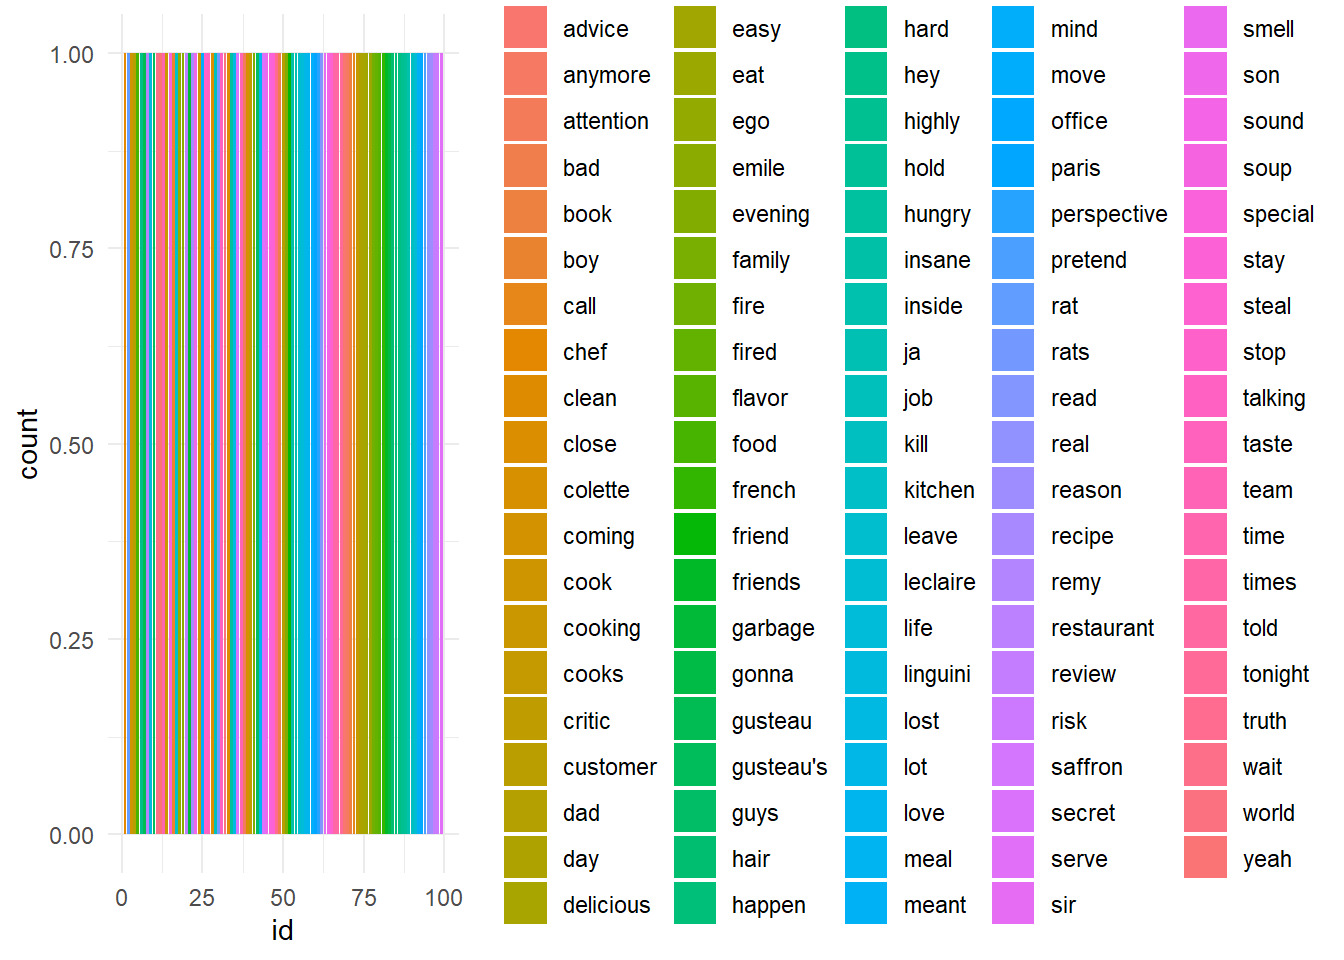
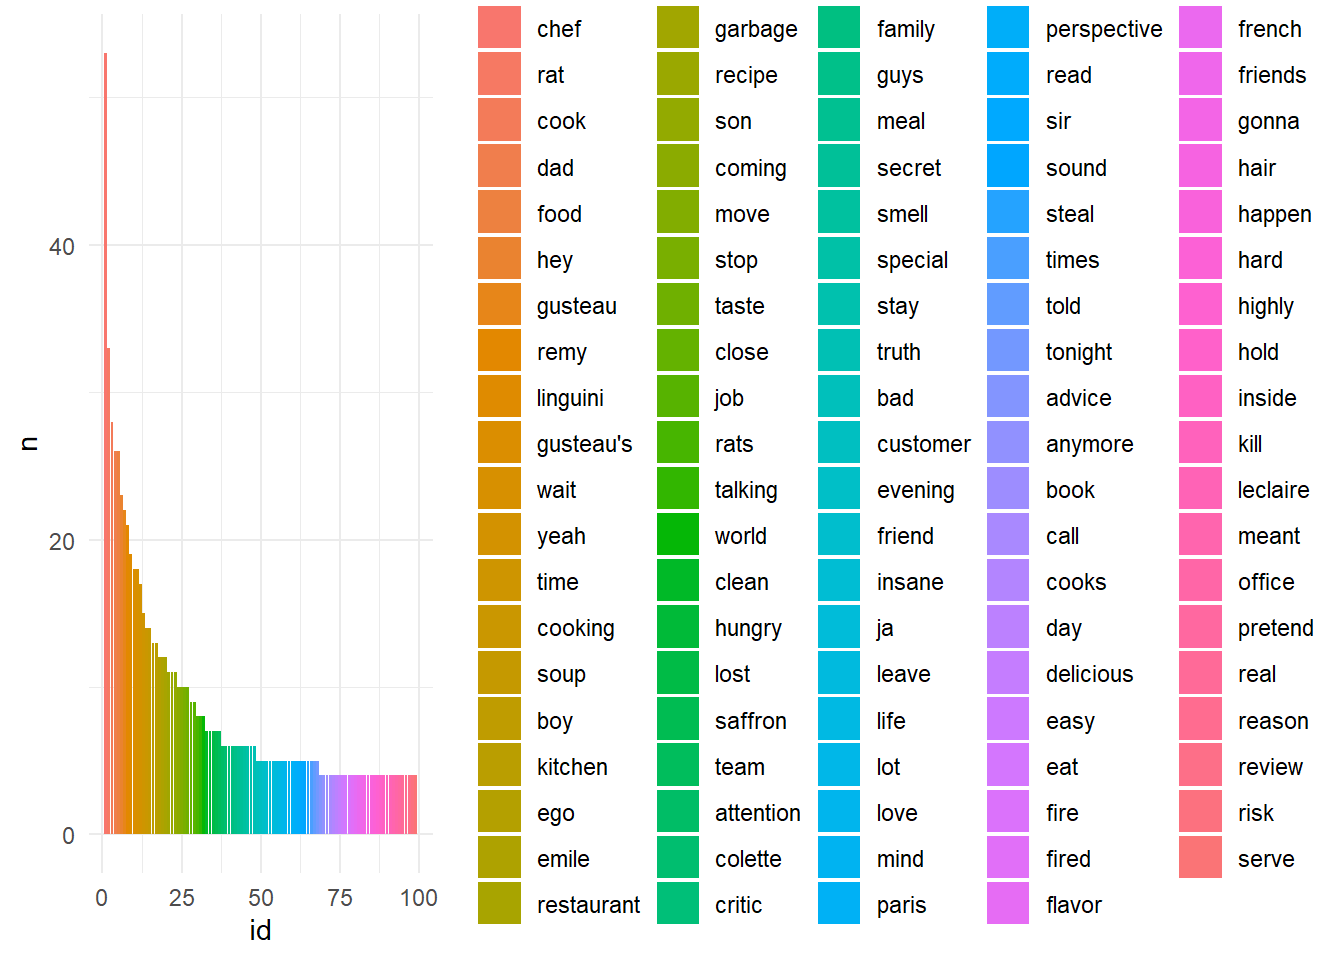
RATAT

diff --git a/docs/RATATOUILLE.html b/docs/RATATOUILLE.html
@@ -246,8 +246,8 @@ pre > code.sourceCode > span > a:first-child::before { text-decoration: underlin
 </div>
 </div>
 <div class="cell">
-<div class="sourceCode cell-code" id="cb3"><pre class="sourceCode r code-with-copy"><code class="sourceCode r"><span id="cb3-1"><a href="#cb3-1" aria-hidden="true" tabindex="-1"></a><span class="fu">ggplot</span>(plot_rat, <span class="fu">aes</span>(<span class="at">x =</span> id, <span class="at">fill =</span> word)) <span class="sc">+</span></span>
-<span id="cb3-2"><a href="#cb3-2" aria-hidden="true" tabindex="-1"></a>  <span class="fu">geom_bar</span>() <span class="sc">+</span></span>
+<div class="sourceCode cell-code" id="cb3"><pre class="sourceCode r code-with-copy"><code class="sourceCode r"><span id="cb3-1"><a href="#cb3-1" aria-hidden="true" tabindex="-1"></a><span class="fu">ggplot</span>(plot_rat, <span class="fu">aes</span>(<span class="at">x =</span> id, <span class="at">fill =</span> <span class="fu">reorder</span>(word, <span class="sc">-</span>n), <span class="at">y=</span>n)) <span class="sc">+</span></span>
+<span id="cb3-2"><a href="#cb3-2" aria-hidden="true" tabindex="-1"></a>  <span class="fu">geom_col</span>() <span class="sc">+</span></span>
 <span id="cb3-3"><a href="#cb3-3" aria-hidden="true" tabindex="-1"></a>  <span class="fu">labs</span>(<span class="at">fill =</span> <span class="st">"Word"</span>) <span class="sc">+</span></span>
 <span id="cb3-4"><a href="#cb3-4" aria-hidden="true" tabindex="-1"></a>  <span class="fu">theme_minimal</span>()</span></code><button title="Copy to Clipboard" class="code-copy-button"><i class="bi"></i></button></pre></div>
 <div class="cell-output-display">
